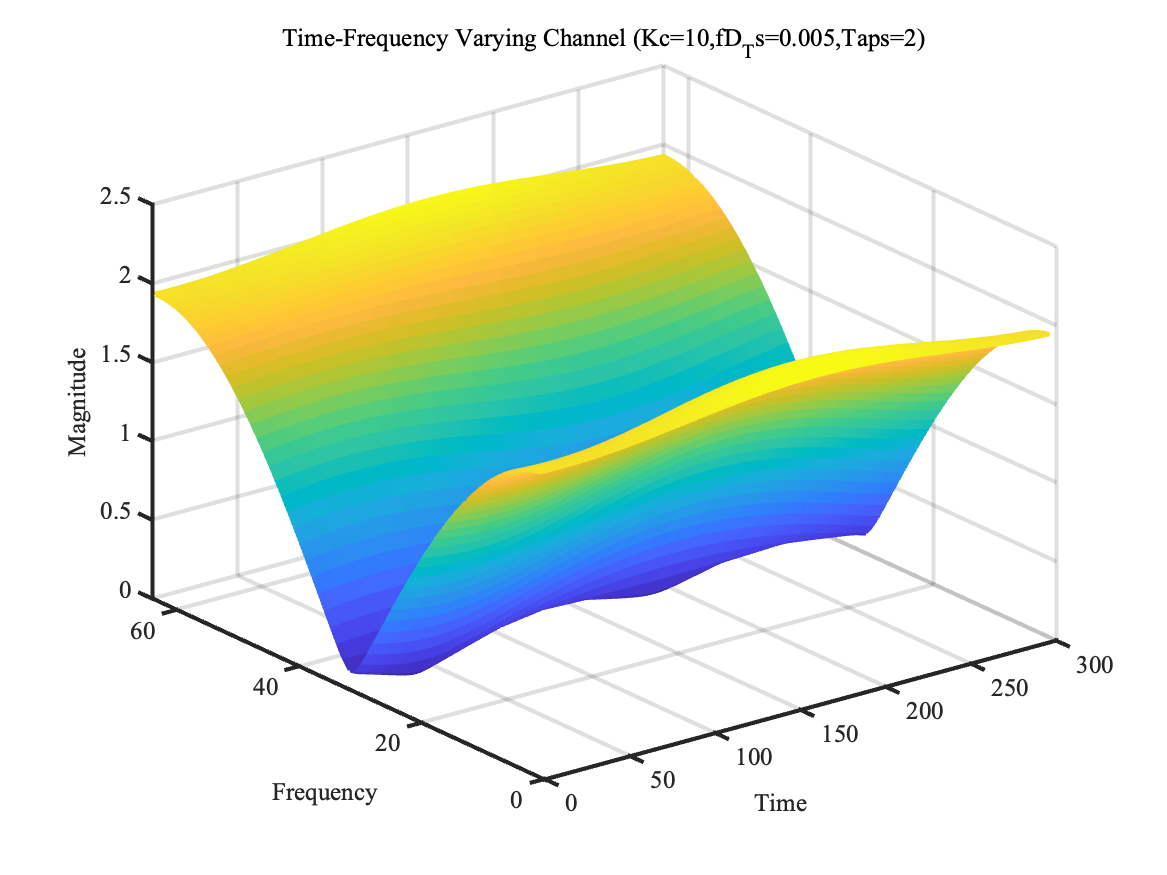
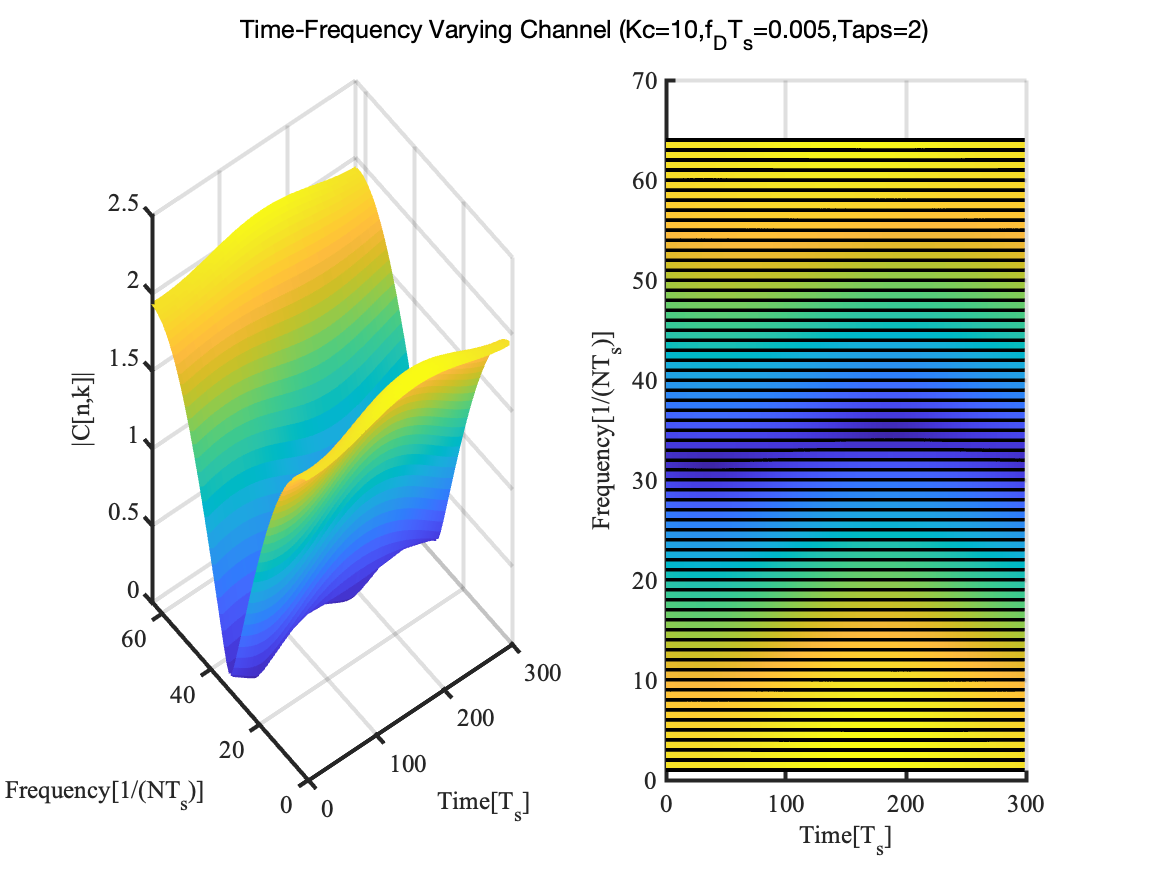
update

diff --git a/Part_A.m b/Part_A.m
@@ -237,13 +237,25 @@ for i=1:3
     for j=1:3
         for k=1:2
             output = time_frequency_varying_method(2,length_of_taps(i),number_of_fft_point,number_of_samping,samping_time_interval,frequency_doppler_shift(k),number_of_filter_coffecient,number_of_sample_frequency_method,Kc(j));
-            %start from figure 5
+            %start from figure 5, try subplot, subplot(1,2,1) mesh, subplot(1,2,1) surf(0:number_of_samping-1, 1:number_of_fft_point, abs(C), ’MeshStyle’, ’row’)
             figure(4+(i-1)*6+(j-1)*2+k);
+            sgtitle(['Time-Frequency Varying Channel (Kc=',num2str(Kc(j)),',f_DT_s=',num2str(fD_Ts(k)),',Taps=',num2str(length_of_taps(i)),')']);
+            subplot(1,2,1);
             mesh(1:number_of_samping,1:number_of_fft_point,abs(output));
-            xlabel('Time');
-            ylabel('Frequency');
-            zlabel('Magnitude');
-            title(['Time-Frequency Varying Channel (Kc=',num2str(Kc(j)),',fD_Ts=',num2str(fD_Ts(k)),',Taps=',num2str(length_of_taps(i)),')']);
+            xlabel('Time[T_s]');
+            ylabel('Frequency[1/(NT_s)]');
+            zlabel('|C[n,k]|');
+            grid on;
+            set(findall(gcf,'-property','FontSize'),'FontSize',12);
+            set(findall(gcf,'-property','LineWidth'),'LineWidth',2);
+            set(findall(gcf,'-property','MarkerSize'),'MarkerSize',10);
+            set(gca,'FontName','Times New Roman');
+            subplot(1,2,2);
+            surf(0:number_of_samping-1, 1:number_of_fft_point, abs(output), 'MeshStyle', 'row');
+            view(0,90);
+            xlabel('Time[T_s]');
+            ylabel('Frequency[1/(NT_s)]');
+            zlabel('C[n,k]');
             grid on;
             set(findall(gcf,'-property','FontSize'),'FontSize',12);
             set(findall(gcf,'-property','LineWidth'),'LineWidth',2);

diff --git a/Rician_kc.m b/Rician_kc.m
@@ -4,7 +4,7 @@ function rician_channel_coff = Rician_kc(channel_time_domain,Kc)
 % Syntax: rician_channel_coff = myFun(input)
 %
 % Long description
-channel_time_domain=channel_time_domain+Kc;
+channel_time_domain=channel_time_domain+Kc;%add constant
 %renormalize the channel
-rician_channel_coff=sqrt(length(channel_time_domain))*channel_time_domain./sqrt((sum(abs(channel_time_domain).^2)));
+rician_channel_coff=sqrt(length(channel_time_domain))*channel_time_domain./sqrt((sum(abs(channel_time_domain).^2)));%re-normalization
 end
